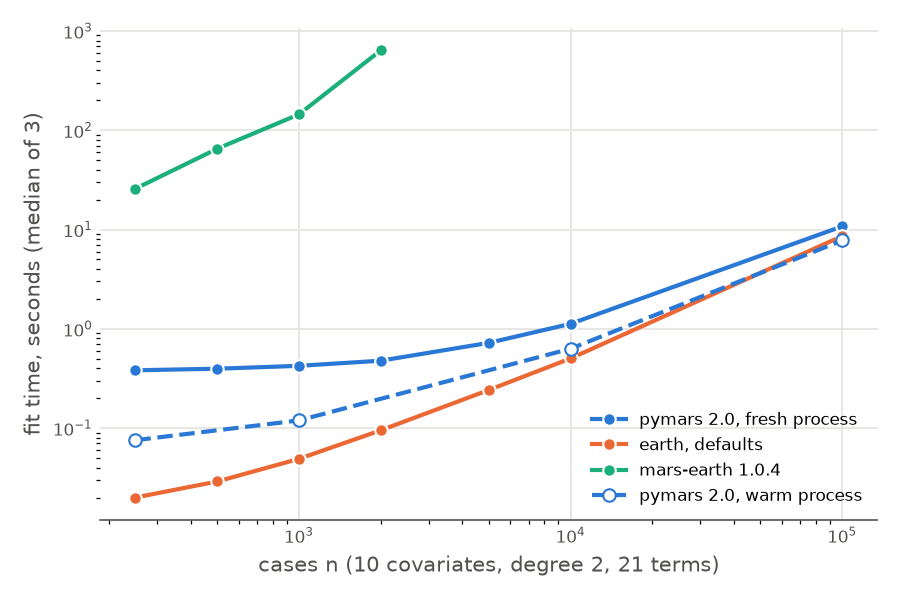
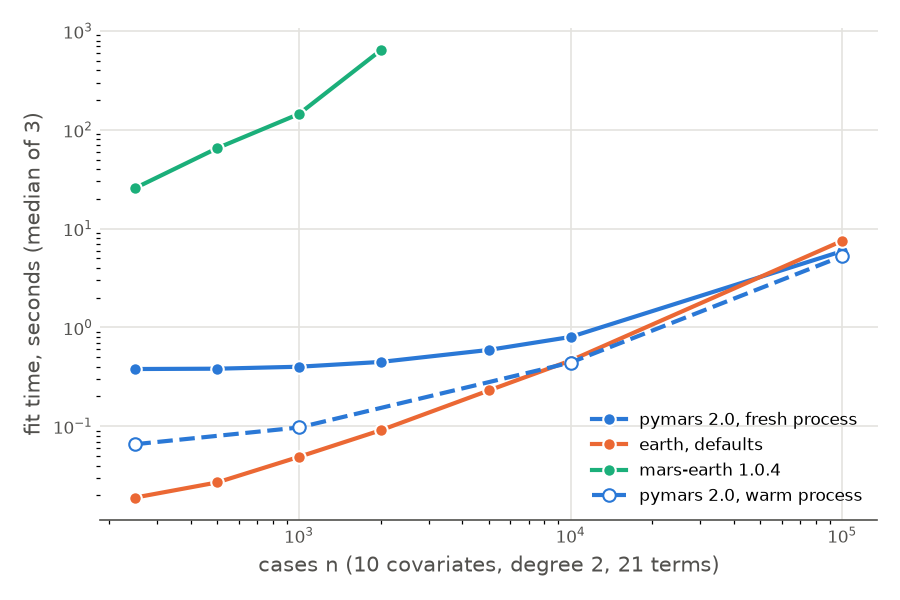
docs: benchmark and speed text on main after K145c (#24)

diff --git a/validation/bench/REPORT.md b/validation/bench/REPORT.md
@@ -2,18 +2,18 @@
 
 Written by `validation/bench/report.py` from the results of `validation/bench/run.py`. Each point is the median of 3 runs, each in a fresh process with one thread; the timeout is 30 min per fit. Times are wall seconds of the fit alone. In the tables a cell reads `time (selected terms/forward terms)`. The data are Friedman #1 with fixed seeds, the same for every system; the baseline is 1,000 cases, 10 covariates, degree 2 and a limit of 21 terms. `not run` means the setting is not in the design for that system (the legacy code stops at 2,000 cases and takes no weights) or has not finished. Each run is a fresh process, so one-time start costs of pymars fall inside the timed fit; the numbers are the cost of a single fit, not of a repeated one.
 
-Run on Apple M1 Pro (10 cores), Python 3.12.13, numpy 2.5.3, R version 4.4.3 (2025-02-28), earth 5.3.4, 4 cells at a time, 1-minute load average 2.9 at the start, pymars commit `3e1aefc7a7`. Several cells ran at once on a shared machine, so times carry some noise.
+Run on Apple M1 Pro (10 cores), Python 3.12.13, numpy 2.5.3, R version 4.4.3 (2025-02-28), earth 5.3.4, 4 cells at a time, 1-minute load average 3.0 at the start, pymars commit `faac561e41`. Several cells ran at once on a shared machine, so times carry some noise.
 
-**Notes added by hand (T22b; `report.py` does not write them).** The legacy times are those of the T19 run at `ae9d199` (the same worker and data, so the same cell keys); the legacy code does not change, and this run did not repeat its 2 hours. The timer starts after the imports and the data loading (`worker.py`), so import time is not in any number here. The fresh-process times of pymars do include the first-call costs of the fit: numba loads the compiled knot scan from its disk cache on the first call, and the first numpy and scipy calls warm up. Together these add about 0.3 s per process. A program that fits many models in one process pays them once. `validation/sims/report/warm_times.py` times `EarthRegressor` after a first fit in the same process (median of 3, `validation/sims/report/warm_times.csv`):
+**Notes added by hand (T22b; `report.py` does not write them).** The legacy times are those of the T19 run at `ae9d199` (the same worker and data, so the same cell keys); the legacy code does not change, and this run did not repeat its 2 hours. The timer starts after the imports and the data loading (`worker.py`), so import time is in no number here. The fresh-process times of pymars do include the first-call costs of the fit: numba loads the compiled kernels from its disk cache on the first call, and the first numpy and scipy calls warm up. Together these add about 0.3 s per process. A program that fits many models in one process pays them once. `validation/sims/report/warm_times.py` times `EarthRegressor` after a first fit in the same process (median of 3, `validation/sims/report/warm_times.csv`, at `faac561`'s `pymars/`):
 
 | Cases | pymars, fresh (s) | pymars, warm (s) | earth defaults (s) | Factor, fresh | Factor, warm |
 |---|---|---|---|---|---|
-| 250 | 0.382 | 0.076 | 0.020 | 19 | 3.8 |
-| 1,000 | 0.424 | 0.120 | 0.049 | 8.7 | 2.4 |
-| 10,000 | 1.12 | 0.630 | 0.503 | 2.2 | 1.3 |
-| 100,000 | 10.8 | 7.76 | 8.59 | 1.3 | 0.90 |
+| 250 | 0.379 | 0.066 | 0.019 | 20 | 3.5 |
+| 1,000 | 0.400 | 0.097 | 0.049 | 8.2 | 2.0 |
+| 10,000 | 0.801 | 0.441 | 0.462 | 1.7 | 0.95 |
+| 100,000 | 5.91 | 5.25 | 7.51 | 0.79 | 0.70 |
 
-The fixed cost also flattens the log-log slopes below: from 10,000 to 100,000 cases the time of `EarthRegressor` grows by a factor of 9.6 (slope 0.98), close to linear in n.
+The fixed cost also flattens the log-log slopes below: from 10,000 to 100,000 cases the time of `EarthRegressor` grows by a factor of 7.4 (slope 0.87).
 
 ## Ratio to earth at 10,000 cases
 
@@ -21,13 +21,13 @@ The fixed cost also flattens the log-log slopes below: from 10,000 to 100,000 ca
 
 | System | Time (s) | Ratio to earth defaults | Ratio to earth fast.k=0 |
 |---|---|---|---|
-| pymars fit_mars | 0.982 | 2.0 | 1.8 |
-| pymars EarthRegressor | 1.12 | 2.2 | 2.1 |
-| earth defaults | 0.503 | 1.0 | 0.9 |
-| earth fast.k=0 | 0.539 | 1.1 | 1.0 |
+| pymars fit_mars | 0.764 | 1.7 | 1.6 |
+| pymars EarthRegressor | 0.801 | 1.7 | 1.7 |
+| earth defaults | 0.462 | 1.0 | 1.0 |
+| earth fast.k=0 | 0.472 | 1.0 | 1.0 |
 | legacy 1.0.4 | not run | | |
 
-pymars `fit_mars` is 2.0 times earth at its defaults.
+pymars `fit_mars` is 1.7 times earth at its defaults.
 
 ## Times by factor
 
@@ -35,47 +35,47 @@ pymars `fit_mars` is 2.0 times earth at its defaults.
 
 | cases n | pymars fit_mars | pymars EarthRegressor | earth defaults | earth fast.k=0 | legacy 1.0.4 |
 |---|---|---|---|---|---|
-| 250 | 0.397 (16/19) | 0.382 (16/19) | 0.020 (15/18) | 0.019 (15/18) | 25.79 (17/21) |
-| 500 | 0.408 (18/19) | 0.396 (18/19) | 0.029 (18/18) | 0.028 (18/18) | 65.12 (15/21) |
-| 1,000 | 0.425 (18/18) | 0.424 (18/18) | 0.049 (18/18) | 0.049 (18/18) | 144 (16/21) |
-| 2,000 | 0.490 (16/18) | 0.477 (16/18) | 0.095 (16/18) | 0.093 (16/18) | 637 (16/21) |
-| 5,000 | 0.687 (17/19) | 0.722 (17/19) | 0.242 (18/18) | 0.237 (18/18) | not run |
-| 10,000 | 0.982 (17/19) | 1.12 (17/19) | 0.503 (17/19) | 0.539 (17/19) | not run |
-| 100,000 | 10.40 (16/19) | 10.76 (16/19) | 8.59 (16/19) | 7.36 (16/19) | not run |
+| 250 | 0.378 (16/19) | 0.379 (16/19) | 0.019 (15/18) | 0.019 (15/18) | 25.79 (17/21) |
+| 500 | 0.383 (18/19) | 0.382 (18/19) | 0.027 (18/18) | 0.028 (18/18) | 65.12 (15/21) |
+| 1,000 | 0.398 (18/18) | 0.400 (18/18) | 0.049 (18/18) | 0.048 (18/18) | 144 (16/21) |
+| 2,000 | 0.441 (16/18) | 0.447 (16/18) | 0.091 (16/18) | 0.092 (16/18) | 637 (16/21) |
+| 5,000 | 0.588 (17/19) | 0.592 (17/19) | 0.230 (18/18) | 0.239 (18/18) | not run |
+| 10,000 | 0.764 (17/19) | 0.801 (17/19) | 0.462 (17/19) | 0.472 (17/19) | not run |
+| 100,000 | 6.01 (16/19) | 5.91 (16/19) | 7.51 (16/19) | 7.12 (16/19) | not run |
 
 ### covariates p
 
 | covariates p | pymars fit_mars | pymars EarthRegressor | earth defaults | earth fast.k=0 | legacy 1.0.4 |
 |---|---|---|---|---|---|
-| 5 | 0.376 (16/19) | 0.374 (16/19) | 0.030 (16/18) | 0.029 (16/18) | 91.26 (16/21) |
-| 10 | 0.425 (18/18) | 0.424 (18/18) | 0.049 (18/18) | 0.049 (18/18) | 144 (16/21) |
-| 20 | 0.566 (17/19) | 0.540 (17/19) | 0.094 (17/19) | 0.090 (17/19) | 377 (18/21) |
-| 50 | 0.916 (18/19) | 0.922 (18/19) | 0.216 (18/19) | 0.211 (18/19) | 794 (16/21) |
-| 100 | 1.46 (16/19) | 1.50 (16/19) | 0.433 (16/19) | 0.421 (16/19) | 1,594 (16/21) |
+| 5 | 0.360 (16/19) | 0.360 (16/19) | 0.028 (16/18) | 0.028 (16/18) | 91.26 (16/21) |
+| 10 | 0.398 (18/18) | 0.400 (18/18) | 0.049 (18/18) | 0.048 (18/18) | 144 (16/21) |
+| 20 | 0.525 (17/19) | 0.513 (17/19) | 0.090 (17/19) | 0.090 (17/19) | 377 (18/21) |
+| 50 | 0.809 (18/19) | 0.851 (18/19) | 0.213 (18/19) | 0.215 (18/19) | 794 (16/21) |
+| 100 | 1.30 (16/19) | 1.32 (16/19) | 0.420 (16/19) | 0.423 (16/19) | 1,594 (16/21) |
 
 ### degree
 
 | degree | pymars fit_mars | pymars EarthRegressor | earth defaults | earth fast.k=0 | legacy 1.0.4 |
 |---|---|---|---|---|---|
-| 1 | 0.328 (16/17) | 0.318 (16/17) | 0.034 (16/17) | 0.032 (16/17) | 40.22 (11/21) |
-| 2 | 0.425 (18/18) | 0.424 (18/18) | 0.049 (18/18) | 0.049 (18/18) | 144 (16/21) |
-| 3 | 0.455 (18/18) | 0.484 (18/18) | 0.052 (18/18) | 0.052 (18/18) | 194 (16/21) |
+| 1 | 0.323 (16/17) | 0.325 (16/17) | 0.032 (16/17) | 0.032 (16/17) | 40.22 (11/21) |
+| 2 | 0.398 (18/18) | 0.400 (18/18) | 0.049 (18/18) | 0.048 (18/18) | 144 (16/21) |
+| 3 | 0.424 (18/18) | 0.419 (18/18) | 0.053 (18/18) | 0.053 (18/18) | 194 (16/21) |
 
 ### term limit
 
 | term limit | pymars fit_mars | pymars EarthRegressor | earth defaults | earth fast.k=0 | legacy 1.0.4 |
 |---|---|---|---|---|---|
-| 11 | 0.353 (10/11) | 0.402 (10/11) | 0.034 (10/11) | 0.033 (10/11) | 43.10 (11/11) |
-| 21 | 0.425 (18/18) | 0.424 (18/18) | 0.049 (18/18) | 0.049 (18/18) | 144 (16/21) |
-| 41 | 0.512 (21/21) | 0.496 (21/21) | 0.062 (21/21) | 0.062 (21/21) | 1,433 (31/41) |
-| 81 | 0.500 (21/21) | 0.589 (21/21) | 0.060 (21/21) | 0.064 (21/21) | >30 min |
+| 11 | 0.343 (10/11) | 0.364 (10/11) | 0.033 (10/11) | 0.034 (10/11) | 43.10 (11/11) |
+| 21 | 0.398 (18/18) | 0.400 (18/18) | 0.049 (18/18) | 0.048 (18/18) | 144 (16/21) |
+| 41 | 0.468 (21/21) | 0.463 (21/21) | 0.063 (21/21) | 0.062 (21/21) | 1,433 (31/41) |
+| 81 | 0.469 (21/21) | 0.485 (21/21) | 0.063 (21/21) | 0.062 (21/21) | >30 min |
 
 ### weights
 
 | weights | pymars fit_mars | pymars EarthRegressor | earth defaults | earth fast.k=0 | legacy 1.0.4 |
 |---|---|---|---|---|---|
-| off | 0.425 (18/18) | 0.424 (18/18) | 0.049 (18/18) | 0.049 (18/18) | 144 (16/21) |
-| on | 0.453 (18/18) | 0.451 (18/18) | 16.42 (15/17) | 16.17 (15/17) | not run |
+| off | 0.398 (18/18) | 0.400 (18/18) | 0.049 (18/18) | 0.048 (18/18) | 144 (16/21) |
+| on | 0.420 (18/18) | 0.436 (18/18) | 16.31 (15/17) | 16.21 (15/17) | not run |
 
 ## Log-log slopes
 
@@ -83,10 +83,10 @@ The slope of log time on log of the factor, by least squares over the finished p
 
 | System | cases n | covariates p | term limit |
 |---|---|---|---|
-| pymars fit_mars | 0.53 (7) | 0.46 (5) | 0.19 (4) |
-| pymars EarthRegressor | 0.55 (7) | 0.47 (5) | 0.20 (4) |
-| earth defaults | 1.02 (7) | 0.90 (5) | 0.29 (4) |
-| earth fast.k=0 | 1.01 (7) | 0.90 (5) | 0.33 (4) |
+| pymars fit_mars | 0.44 (7) | 0.43 (5) | 0.16 (4) |
+| pymars EarthRegressor | 0.44 (7) | 0.44 (5) | 0.15 (4) |
+| earth defaults | 1.01 (7) | 0.91 (5) | 0.33 (4) |
+| earth fast.k=0 | 1.00 (7) | 0.91 (5) | 0.31 (4) |
 | legacy 1.0.4 | 1.50 (4) | 0.98 (5) | 2.67 (3) |
 
 ## Peak memory
@@ -95,27 +95,27 @@ Peak resident set size of the whole process in MiB (median of the runs; for R it
 
 | Setting | pymars fit_mars | pymars EarthRegressor | earth defaults | earth fast.k=0 | legacy 1.0.4 |
 |---|---|---|---|---|---|
-| cases n 250 | 273 / 22 | 270 / 22 | 81 | 77 | 196 / 15 |
-| cases n 500 | 266 / 22 | 271 / 22 | 80 | 81 | 222 |
-| cases n 1,000 | 262 / 23 | 257 / 23 | 81 | 84 | 275 |
-| cases n 2,000 | 283 / 23 | 273 / 23 | 88 | 85 | 348 |
-| cases n 5,000 | 286 / 24 | 290 / 24 | 106 | 101 | - |
-| cases n 10,000 | 320 / 34 | 315 / 34 | 132 | 142 | - |
-| cases n 100,000 | 894 / 209 | 860 / 209 | 416 | 398 | - |
-| covariates p 5 | 273 / 22 | 276 / 22 | 79 | 78 | 225 |
-| covariates p 10 | 262 / 23 | 257 / 23 | 81 | 84 | 275 |
-| covariates p 20 | 275 / 23 | 274 / 23 | 86 | 86 | 343 |
-| covariates p 50 | 284 / 24 | 277 / 24 | 94 | 93 | 637 |
-| covariates p 100 | 278 / 25 | 280 / 25 | 113 | 112 | 1,112 |
-| degree 1 | 273 / 23 | 272 / 23 | 83 | 80 | 194 / 11 |
-| degree 2 | 262 / 23 | 257 / 23 | 81 | 84 | 275 |
-| degree 3 | 263 / 23 | 265 / 23 | 81 | 79 | 293 |
-| term limit 11 | 270 / 23 | 286 / 23 | 81 | 79 | 243 / 59 |
-| term limit 21 | 262 / 23 | 257 / 23 | 81 | 84 | 275 |
-| term limit 41 | 277 / 23 | 274 / 23 | 83 | 80 | 280 |
-| term limit 81 | 276 / 23 | 271 / 23 | 88 | 83 | - |
-| weights off | 262 / 23 | 257 / 23 | 81 | 84 | 275 |
-| weights on | 263 / 23 | 273 / 23 | 86 | 85 | - |
+| cases n 250 | 274 / 22 | 271 / 22 | 80 | 80 | 196 / 15 |
+| cases n 500 | 271 / 22 | 279 / 22 | 80 | 76 | 222 |
+| cases n 1,000 | 266 / 23 | 258 / 23 | 82 | 82 | 275 |
+| cases n 2,000 | 276 / 23 | 272 / 23 | 87 | 85 | 348 |
+| cases n 5,000 | 285 / 26 | 280 / 26 | 106 | 106 | - |
+| cases n 10,000 | 314 / 38 | 311 / 38 | 146 | 134 | - |
+| cases n 100,000 | 761 / 249 | 731 / 249 | 411 | 409 | - |
+| covariates p 5 | 275 / 22 | 275 / 22 | 83 | 82 | 225 |
+| covariates p 10 | 266 / 23 | 258 / 23 | 82 | 82 | 275 |
+| covariates p 20 | 274 / 23 | 275 / 23 | 82 | 84 | 343 |
+| covariates p 50 | 269 / 24 | 276 / 24 | 98 | 92 | 637 |
+| covariates p 100 | 285 / 27 | 279 / 27 | 112 | 110 | 1,112 |
+| degree 1 | 265 / 23 | 280 / 23 | 87 | 80 | 194 / 11 |
+| degree 2 | 266 / 23 | 258 / 23 | 82 | 82 | 275 |
+| degree 3 | 274 / 23 | 269 / 23 | 83 | 78 | 293 |
+| term limit 11 | 275 / 23 | 280 / 23 | 78 | 84 | 243 / 59 |
+| term limit 21 | 266 / 23 | 258 / 23 | 82 | 82 | 275 |
+| term limit 41 | 271 / 23 | 279 / 23 | 84 | 83 | 280 |
+| term limit 81 | 266 / 23 | 272 / 23 | 85 | 85 | - |
+| weights off | 266 / 23 | 258 / 23 | 82 | 82 | 275 |
+| weights on | 268 / 23 | 281 / 23 | 86 | 90 | - |
 
 ## Cells without a time
 

diff --git a/CHANGELOG.md b/CHANGELOG.md
@@ -21,7 +21,7 @@ The rewrite of pymars has started, in the fork alejandroschuler/mars. The new fi
 - The build backend is hatchling. The wheel is pure Python and depends on numpy 1.24.4 or later, scipy 1.9.3 or later, scikit-learn 1.6 or later and, except on macOS x86_64 (Intel Macs, where numba has no wheels, so the slower numpy code runs), numba 0.63 or later. It supports Python 3.10 to 3.14. The numpy floor is 1.24.4 because the OpenBLAS in numpy 1.23.5 gives wrong matrix products on some CPUs (#88).
 - A lean CI workflow replaces the 21 inherited workflows.
 - Spec v3 (#157, #158): all numerics are float64 with tolerances. The exact rational arithmetic that v2 used for nearly dependent columns and large covariate means is gone from the fast code and the reference (#160 to #162), with about 1,100 lines of the fast code. The "Limits" section of `docs/algorithm.md` (and of `docs/differences.md`, in plain words) names the inputs where rounding can change the model.
-- Speed passes (#124, #148, #156, #159, #162): the T20 profiling passes, a numba kernel for the knot scan, compiled bounds and masks, and the removal of the exact paths. A fit with 10,000 cases, 10 covariates and degree 2 now takes 2.2 times as long as earth in a fresh process and 1.3 times in a warm one, down from 7.7 times; at 100,000 cases the two are about equal.
+- Speed passes (#124, #148, #156, #159, #162, #167): the T20 profiling passes, a numba kernel for the knot scan, compiled bounds and masks, the removal of the exact paths, and compiled setup, refine and search steps of the forward pass. A fit with 10,000 cases, 10 covariates and degree 2 now takes 1.7 times as long as earth in a fresh process and the same time in a warm one, down from 7.7 times; at 100,000 cases pymars takes 0.79 times earth's time.
 
 ### Removed
 - All legacy code in `pymars/`, with `EarthCV`, `GLMEarth`, `CategoricalImputer`, `categorical_features`, `feature_importance_type`, the plots, `explain.py`, the portable JSON model format and the command-line tool.

diff --git a/README.md b/README.md
@@ -81,7 +81,7 @@ Two implementations of the specification exist: the fast code in `pymars/`, and 
 
 Accuracy: in a simulation of 51 settings (8 regression and 2 binary data-generating processes, 200 to 5,000 cases, two noise levels), `EarthRegressor(max_degree=2)` and `EarthClassifier(max_degree=2)` match earth's excess risk within 5 percent in 48 settings. On pure noise at 200 cases pymars is about 8 percent worse than earth, because it keeps slightly more noise terms, and two settings are not decided. [validation/REPORT.md](validation/REPORT.md) has the study, claim by claim.
 
-Speed: in the benchmark of [validation/bench/REPORT.md](validation/bench/REPORT.md), a fit with 10,000 cases, 10 covariates, degree 2 and 21 terms takes 2.2 times as long as earth at its defaults for `EarthRegressor` in a fresh process (1.1 s against 0.50 s), and 1.3 times for later fits in the same process. At 100,000 cases the two take about the same time. At a few hundred cases earth is faster, since pymars has a fixed cost of about 0.07 s per fit and about 0.3 s more for the first fit in a process. Weights: `sample_weight` means case counts; see [docs/weights.md](docs/weights.md).
+Speed: in the benchmark of [validation/bench/REPORT.md](validation/bench/REPORT.md), a fit with 10,000 cases, 10 covariates, degree 2 and 21 terms takes 1.7 times as long as earth at its defaults for `EarthRegressor` in a fresh process (0.80 s against 0.46 s), and about the same time (0.95 times) for later fits in the same process. At 100,000 cases pymars is faster (5.9 s against 7.5 s, a factor of 0.79 fresh and 0.70 warm). At 250 cases earth is faster, by a factor of 20 in a fresh process and 3.5 in a warm one, since pymars has a fixed cost of about 0.06 s per fit and about 0.3 s more for the first fit in a process. Weights: `sample_weight` means case counts; see [docs/weights.md](docs/weights.md).
 
 ## Legacy code
 

diff --git a/docs/usage.md b/docs/usage.md
@@ -141,4 +141,4 @@ print(grid.best_params_)
 
 The core runs in Python with numpy, and with numba-compiled loops in the knot scan wherever numba is installed (every platform except Intel Macs, which use the slower numpy code). numba compiles the loops once and keeps them in a disk cache; the first fit in a process loads them, which adds about 0.3 s.
 
-In the benchmark ([validation/bench/REPORT.md](../validation/bench/REPORT.md); 10 covariates, degree 2, 21 terms, one thread), a fit with 10,000 cases takes 1.1 s in a fresh process and 0.63 s in a process that has already fitted, against 0.50 s for earth; with 100,000 cases it takes about 8 to 11 s, as earth does. Below a few thousand cases a fixed cost of about 0.07 s per fit dominates, so earth is faster there (0.02 s at 250 cases). Above that the time grows about linearly in the number of cases. Weights cost little extra (0.45 s against 0.42 s at 1,000 cases). For many small fits, as in cross-validation, fit them in one process. The memory of the fit is O(n·(p + nk)).
+In the benchmark ([validation/bench/REPORT.md](../validation/bench/REPORT.md); 10 covariates, degree 2, 21 terms, one thread), a fit with 10,000 cases takes 0.80 s in a fresh process and 0.44 s in a process that has already fitted, against 0.46 s for earth; with 100,000 cases it takes about 5.3 to 5.9 s, against 7.5 s for earth. Below a few thousand cases a fixed cost of about 0.06 s per fit dominates, so earth is faster there (0.02 s at 250 cases). Above that the time grows a little less than linearly in the number of cases. Weights cost little extra (0.44 s against 0.40 s at 1,000 cases). For many small fits, as in cross-validation, fit them in one process. The memory of the fit is O(n·(p + nk)).
